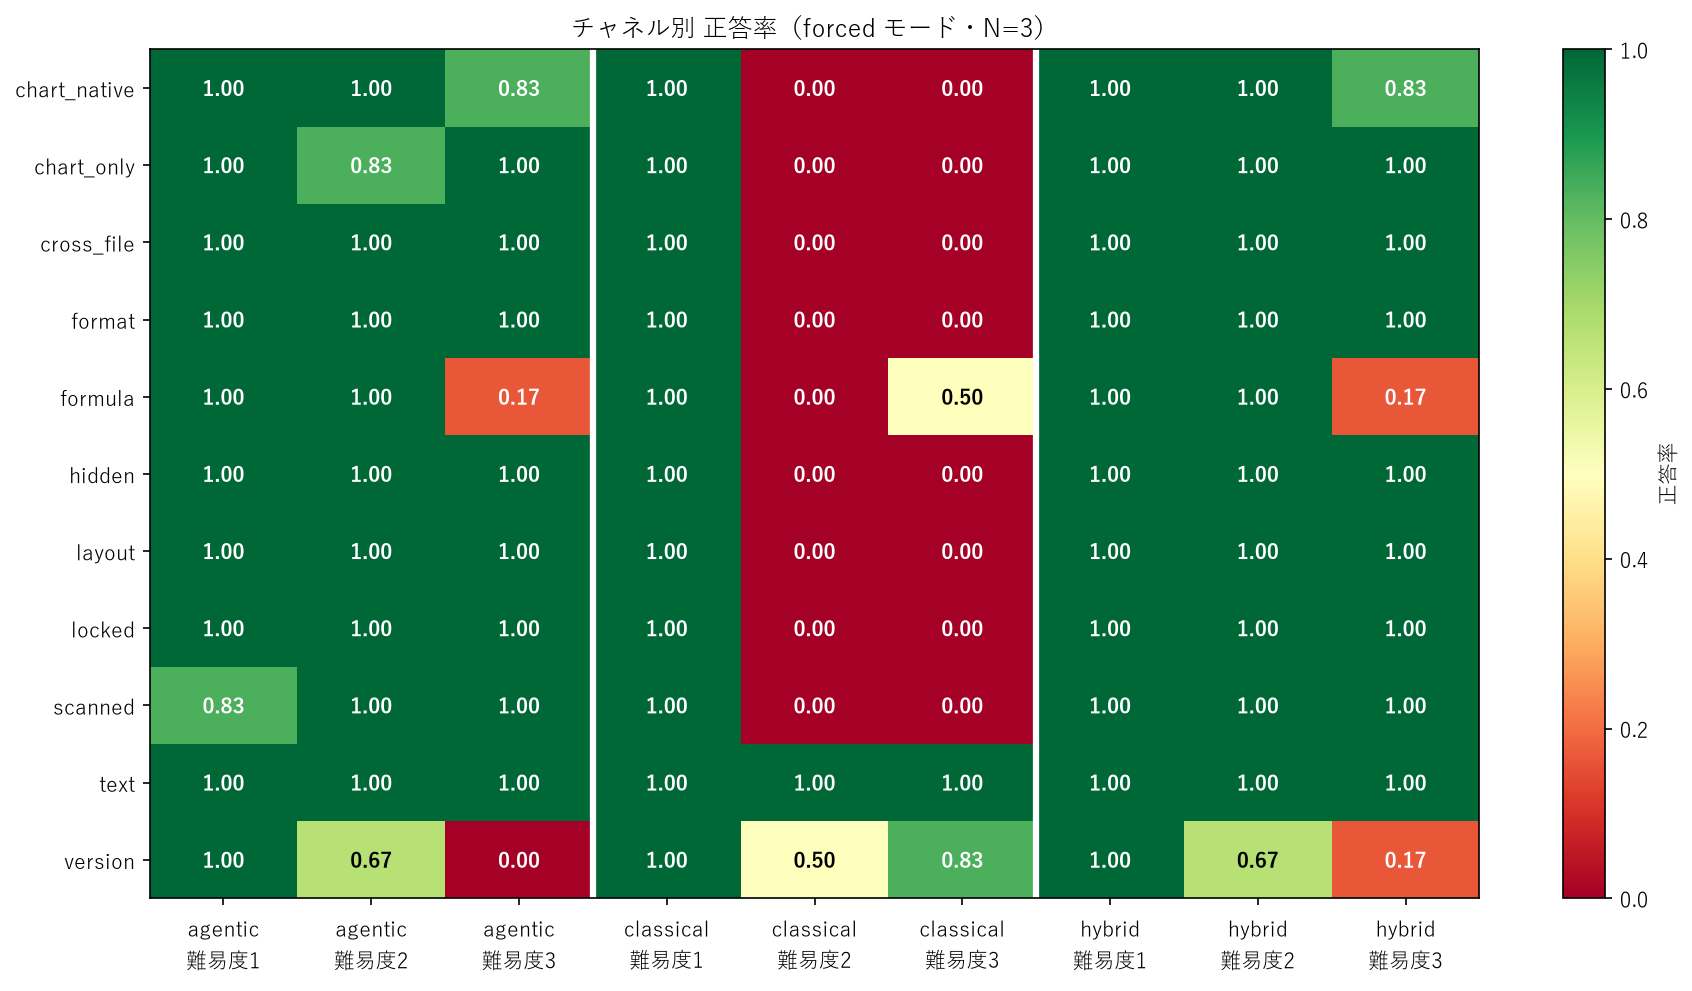
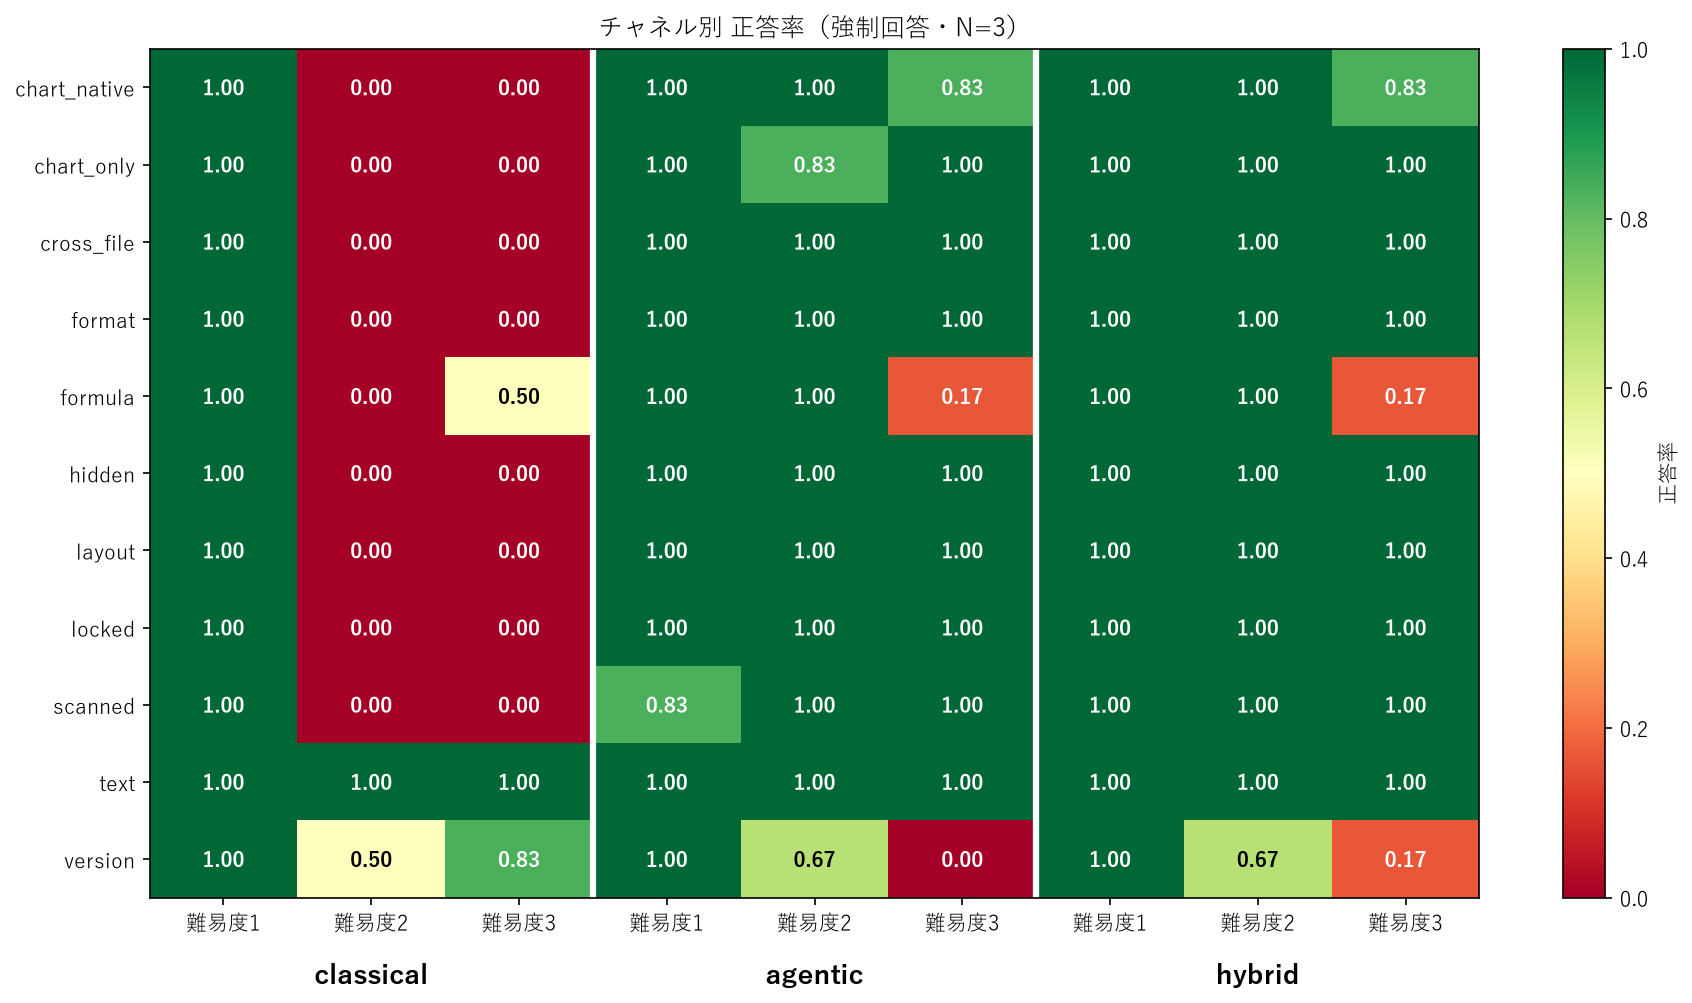
fix(report): order heatmap arms A/B/C and label each arm once
Columns were sorted alphabetically, which put agentic before classical
and broke the A/B/C order the README uses. Each column now shows only
its tier, with the arm name centered once under its group, and the
title names the mode in Japanese.

diff --git a/eval/report.py b/eval/report.py
@@ -75,6 +75,16 @@ def _save(fig: plt.Figure, path: Path) -> None:
 
 
 # ── 1. チャネル別ヒートマップ（主成果物）──────────────────────────
+ARM_ORDER = ("classical", "agentic", "hybrid")
+
+
+def _arm_then_tier(column: tuple[str, int]) -> tuple[int, str, int]:
+    """(アーム, 難易度) の並び順。既知のアームは A / B / C の順、未知のものはその後ろ。"""
+    arm, difficulty = column
+    rank = ARM_ORDER.index(arm) if arm in ARM_ORDER else len(ARM_ORDER)
+    return rank, arm, difficulty
+
+
 def channel_heatmap(frame: pd.DataFrame, out: Path, lab: Labels, mode: str) -> Path:
     """行=チャネル、列=アーム×難易度 の正答率ヒートマップ。
 
@@ -92,13 +102,12 @@ def channel_heatmap(frame: pd.DataFrame, out: Path, lab: Labels, mode: str) -> P
         .unstack(["arm", "difficulty"])
         .sort_index()
     )
-    pivot = pivot.reindex(sorted(pivot.columns), axis=1)
+    # アームは README の A / B / C の順に並べる（アルファベット順だと agentic が先に来る）
+    pivot = pivot.reindex(sorted(pivot.columns, key=_arm_then_tier), axis=1)
 
-    arms = sorted({arm for arm, _ in pivot.columns})
+    arms = list(dict.fromkeys(arm for arm, _ in pivot.columns))
     tier = (lambda d: f"難易度{d}") if lab.ja else (lambda d: f"tier {d}")
-    labels = [
-        tier(d) if len(arms) == 1 else f"{arm}\n{tier(d)}" for arm, d in pivot.columns
-    ]
+    labels = [tier(d) for _, d in pivot.columns]
 
     fig, ax = plt.subplots(figsize=(2.6 + 1.3 * len(pivot.columns), 0.45 * len(pivot) + 2.4))
     data = pivot.to_numpy(dtype=float)
@@ -111,6 +120,23 @@ def channel_heatmap(frame: pd.DataFrame, out: Path, lab: Labels, mode: str) -> P
     for index in range(1, len(pivot.columns)):
         if pivot.columns[index][0] != pivot.columns[index - 1][0]:
             ax.axvline(index - 0.5, color="white", linewidth=3)
+
+    # 目盛は難易度だけにし、アーム名はまとまりの中央に 1 回だけ出す（2 段の見出し）
+    if len(arms) > 1:
+        for arm in arms:
+            columns = [j for j, (a, _) in enumerate(pivot.columns) if a == arm]
+            ax.annotate(
+                arm,
+                xy=(sum(columns) / len(columns), 0),
+                xycoords=("data", "axes fraction"),
+                xytext=(0, -30),
+                textcoords="offset points",
+                ha="center",
+                va="top",
+                fontsize=13,
+                fontweight="bold",
+            )
+
     for i in range(data.shape[0]):
         for j in range(data.shape[1]):
             value = data[i, j]
@@ -125,9 +151,10 @@ def channel_heatmap(frame: pd.DataFrame, out: Path, lab: Labels, mode: str) -> P
                     fontweight="bold",
                 )
 
+    mode_ja = {"forced": "強制回答", "abstain_ok": "棄権あり"}.get(mode, mode)
     ax.set_title(
         lab(
-            f"チャネル別 正答率（{mode} モード・N={subset['repeat'].nunique()}）",
+            f"チャネル別 正答率（{mode_ja}・N={subset['repeat'].nunique()}）",
             f"Accuracy by channel ({mode}, N={subset['repeat'].nunique()})",
         )
     )
